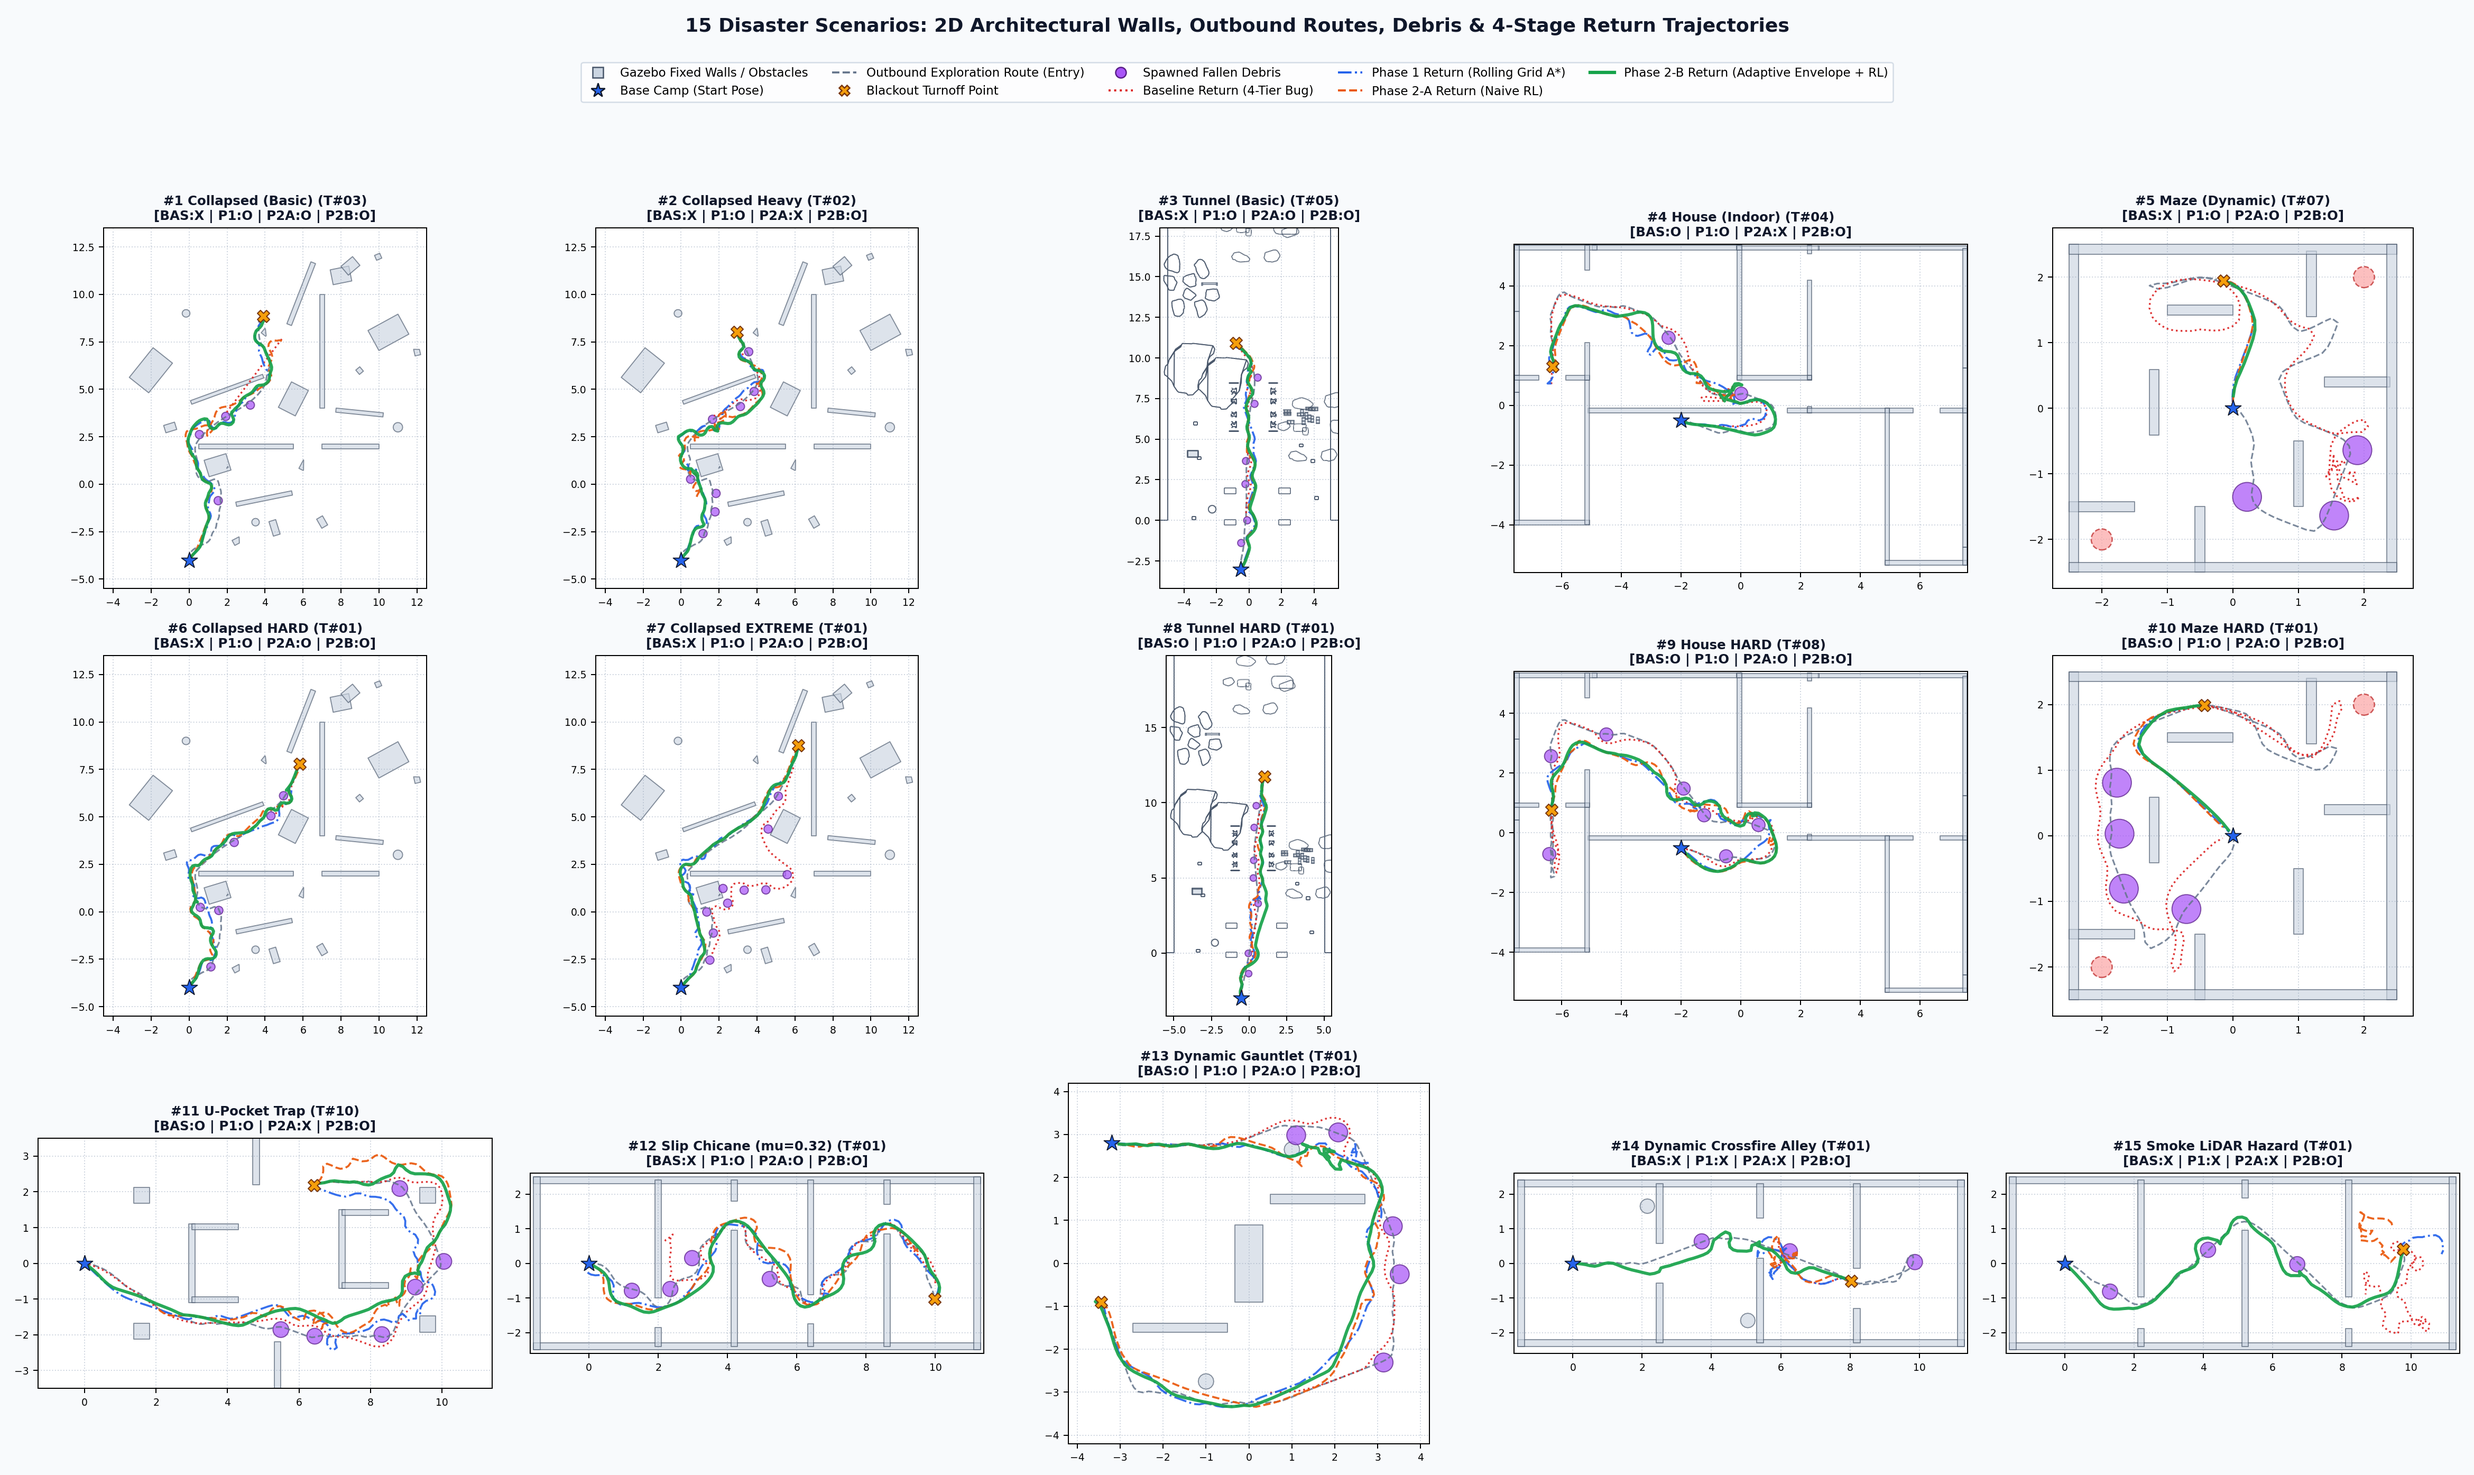
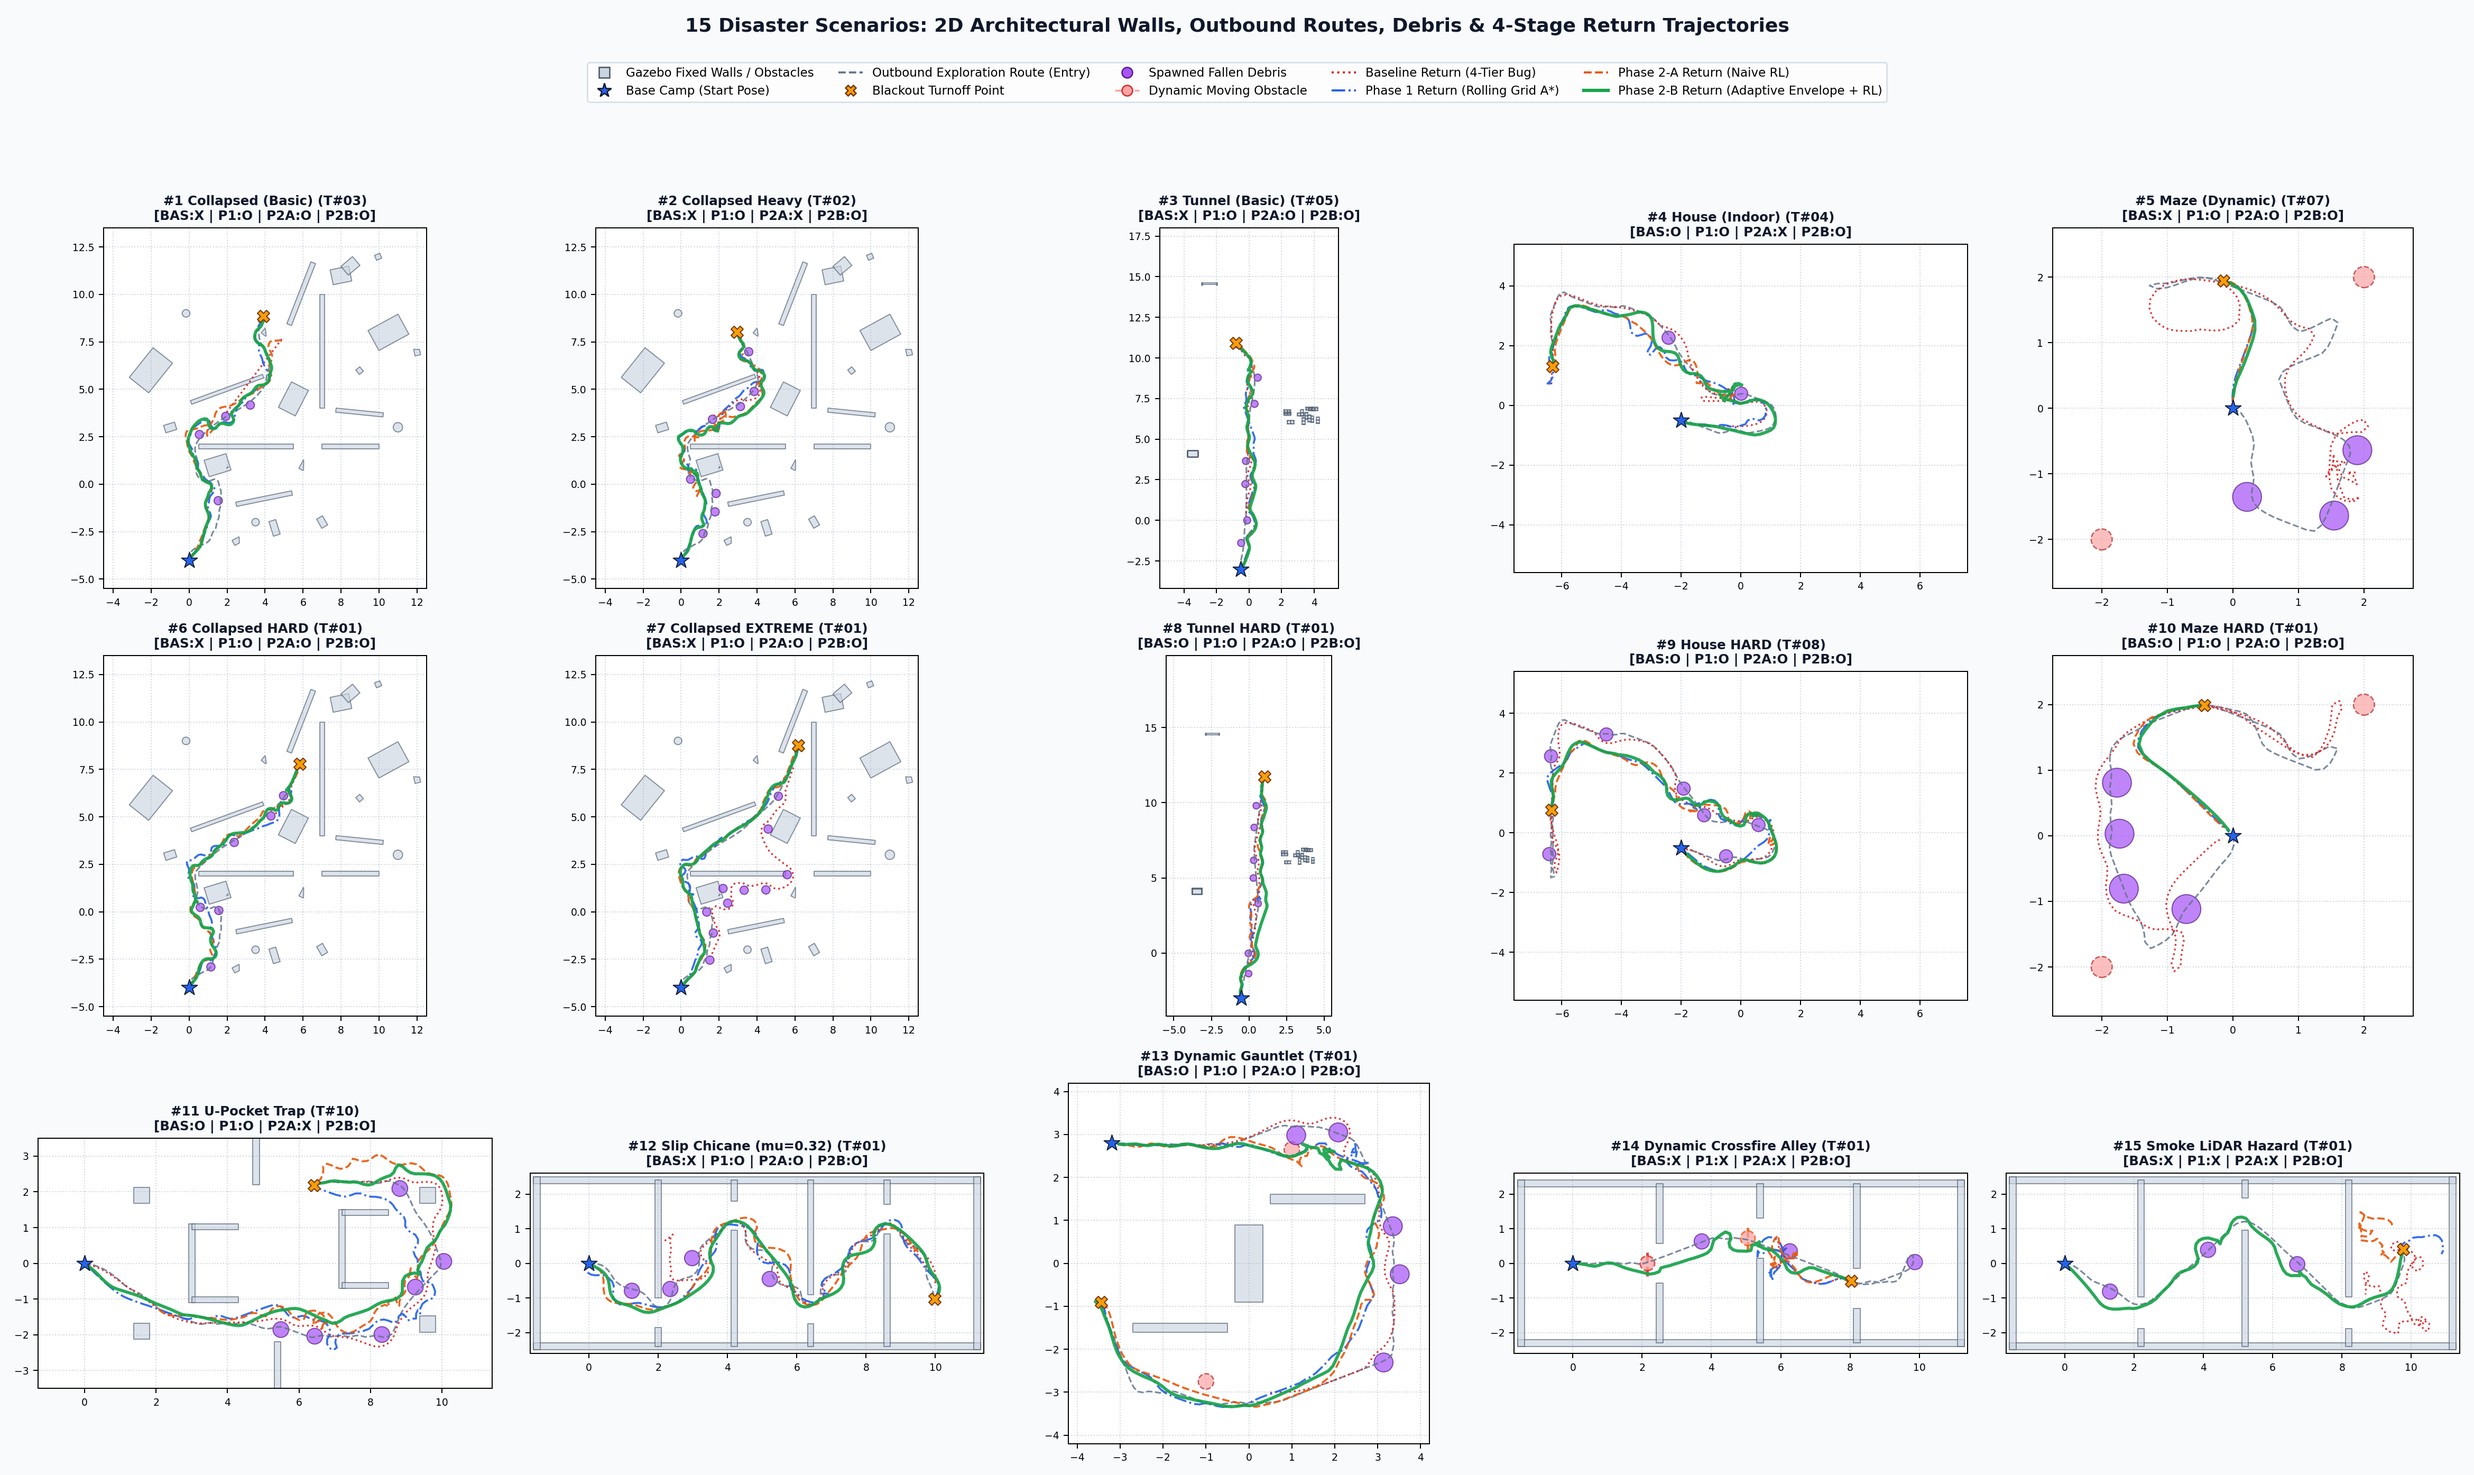
Animate moving pillars in #14 comp4 GIF/atlas, fix broken README ToC anchor, and organize archive section

diff --git a/scripts/host/plot_scenario_routes_15_atlas.py b/scripts/host/plot_scenario_routes_15_atlas.py
@@ -92,8 +92,15 @@ def main() -> int:
             segs = [s for _, s in fp.segments]
             lc = LineCollection(segs, colors="#475569", linewidths=0.75, alpha=0.80, zorder=1)
             ax.add_collection(lc)
-        for _, dx, dy, dr in fp.dynamic_markers:
-            ax.add_patch(mpatches.Circle((dx, dy), max(dr, 0.16), facecolor="#fca5a5", edgecolor="#b91c1c", ls="--", lw=1.0, alpha=0.7, zorder=2))
+        if sc == "dynamic_crossfire_alley":
+            # Active return-phase sweep trajectories across Gate 1 & Gate 2
+            amp = 0.36 / 0.95
+            for cx, cy0, col in ((2.15, 0.00, "#dc2626"), (5.05, 0.725, "#ea580c")):
+                ax.plot([cx, cx], [cy0 - amp, cy0 + amp], color=col, ls="--", lw=2.0, alpha=0.85, zorder=2)
+                ax.add_patch(mpatches.Circle((cx, cy0), 0.21, facecolor="#fca5a5", edgecolor=col, ls="--", lw=1.2, alpha=0.75, zorder=2))
+        else:
+            for _, dx, dy, dr in fp.dynamic_markers:
+                ax.add_patch(mpatches.Circle((dx, dy), max(dr, 0.16), facecolor="#fca5a5", edgecolor="#b91c1c", ls="--", lw=1.0, alpha=0.7, zorder=2))
 
         # 2. Spawned fallen debris rocks (purple circles)
         for deb in r_p2b.get("debris_positions", []):
@@ -141,6 +148,7 @@ def main() -> int:
         mlines.Line2D([], [], color="#64748b", ls="--", lw=1.5, label="Outbound Exploration Route (Entry)"),
         mlines.Line2D([], [], color="#f59e0b", marker="X", markersize=8, markeredgecolor="#78350f", ls="None", label="Blackout Turnoff Point"),
         mlines.Line2D([], [], color="#a855f7", marker="o", markersize=8, markeredgecolor="#581c87", ls="None", label="Spawned Fallen Debris"),
+        mlines.Line2D([], [], color="#fca5a5", marker="o", markersize=8, markeredgecolor="#dc2626", ls="--", lw=1.4, label="Dynamic Moving Obstacle"),
         mlines.Line2D([], [], color="#dc2626", ls=":", lw=1.6, label="Baseline Return (4-Tier Bug)"),
         mlines.Line2D([], [], color="#2563eb", ls="-.", lw=1.6, label="Phase 1 Return (Rolling Grid A*)"),
         mlines.Line2D([], [], color="#ea580c", ls="--", lw=1.6, label="Phase 2-A Return (Naive RL)"),

diff --git a/scripts/host/world_map_geometry.py b/scripts/host/world_map_geometry.py
@@ -380,12 +380,19 @@ def _process_model_elem(
 
     m_model = parent_mat @ _pose_matrix(model_el.findtext("pose"))
 
-    # Dynamic obstacle marker detection (maze)
-    if "obstacle" in low_name and (model_el.find("plugin") is not None or "dqn" in low_name):
+    # Dynamic obstacle marker detection (maze, dynamic_gauntlet, dynamic_crossfire_alley)
+    if ("obstacle" in low_name or "dyn_obs" in low_name) and (model_el.find("plugin") is not None or "dqn" in low_name):
         inc = model_el.find("include")
         inc_pose = _pose_matrix(inc.findtext("pose")) if inc is not None else np.eye(4)
         m_dyn = m_model @ inc_pose
-        fp.dynamic_markers.append((name, float(m_dyn[0, 3]), float(m_dyn[1, 3]), 0.12))
+        rad = 0.12
+        rad_text = model_el.findtext(".//cylinder/radius")
+        if rad_text:
+            try:
+                rad = float(rad_text)
+            except ValueError:
+                pass
+        fp.dynamic_markers.append((name, float(m_dyn[0, 3]), float(m_dyn[1, 3]), rad))
         return
 
     # Recursive nested <include> inside <model> (e.g., turtlebot3_house, turtlebot3_dqn_world)

diff --git a/README.md b/README.md
@@ -33,7 +33,13 @@
 2. [핵심 기능](#-핵심-기능)
 3. [시스템 아키텍처](#-시스템-아키텍처)
 4. [상태 머신](#-상태-머신-recovery_controller)
-5. [차세대 고도화 로드맵](#-차세대-고도화-15대-재난-시나리오-150회-확장-벤치마크--phase-2-b-적응형-인지안전-포락선-9933)
+5. [차세대 고도화: 15대 시나리오 150회 벤치마크 & Phase 2-B (`99.33%`)](#-차세대-고도화-15대-재난-시나리오-150회-확장-벤치마크--phase-2-b-자율-복귀-검증-9933)
+   - [1. 계층형 자율 복귀 구조](#1-phase-2-b-계층형-자율-복귀-구조)
+   - [2. #14·#15 난제 추가 배경](#2-왜-15개-시나리오14-15-포함로-확장했는가)
+   - [3. 15대 시나리오 3D · 2D 맵 & 경로 지도](#3-15대-재난-시나리오별-맵-구성3d--2d--진입-경로--유리한-복귀-방식)
+   - [4. 150회 4단계 정량 비교](#4-15대-시나리오--10회-150회-4단계-정량-비교)
+   - [5. 4-Way 비교 GIF · 3D 주행 영상 · V100 재학습](#-5-4-way-복귀-궤적-비교-gif-baseline-vs-phase-1-vs-phase-2-a-vs-phase-2-b-및-3d-주행-영상)
+   - [6. 이전 단계 벤치마크 및 문서 아카이브](#6-이전-단계-벤치마크-및-문서-아카이브)
 6. [하드웨어 구성](#-하드웨어-구성)
 7. [저장소 구조](#-저장소-구조)
 8. [설치](#-설치)
@@ -409,13 +415,15 @@ flowchart TD
 | :---: | :---: | :---: |
 | <img src="docs/images/evidence/phase2b_retrain_early_upd25.gif" width="100%" alt="Phase 2-B Retrain Early upd25"> | <img src="docs/images/evidence/phase2b_retrain_mid_upd150.gif" width="100%" alt="Phase 2-B Retrain Mid upd150"> | <img src="docs/images/evidence/phase2b_retrain_final_student.gif" width="100%" alt="Phase 2-B Retrain Final Student"> |
 
-> *동일 홀드아웃 `Seed 10068 (collapsed_debris · 주황색 기둥 7개)` 기준: **Early**는 기둥 사이에서 헤매며 시간 초과(`TIMEOUT`, 321스텝), **Mid**는 크게 회전·우회(`5.14m`)해 310스텝 만에 간신히 통과(`PASS`), **Final Student**는 기둥 사이를 매끄럽게 S자로 통과(`3.60m`)하며 `102스텝`(`20.8s`) 만에 복귀한다.*
+> *동일 홀드아웃 `Seed 10068 (collapsed_debris · 주황색 기둥 7개)` 기준 (`Start (0.00, -0.06) → Goal (3.33, -0.21)`): **Early**는 중앙 기둥 틈을 통과한 뒤 목표 수렴에 실패해 시간 초과(`TIMEOUT`, 321스텝), **Mid**는 목표 부근을 지나쳐 외곽으로 크게 우회(`5.14m`, 310스텝)한 끝에 통과(`PASS`), **Final Student**는 최단 도달 시간 보상(`time_bonus`)과 안전 여유 제약에 따라 불필요한 외곽 기둥 슬라럼 대신 중앙 기둥 사이 틈을 S자로 가로지르는 최단 안전 경로(`3.60m`, `102스텝` 단축)로 복귀한다.*
 
 <p align="center">
   <img src="docs/images/evidence/phase2b_learning_curves_sim.png" alt="Phase 2-B V100 Retraining Learning Curves" width="68%">
   <br>
   <em>▲ Tesla V100 32GB Phase 2-B 커리큘럼 재학습 수렴 곡선 (`docs/images/evidence/phase2b_learning_curves_sim.png`)</em>
 </p>
+
+#### 벤치마크 재현 명령어
 
 ```bash
 # 15대 재난 시나리오 4단계(Baseline / Phase 1 / Phase 2-A / Phase 2-B) 벤치마크 재현
@@ -424,9 +432,25 @@ python3 scripts/host/ab_disaster_benchmark.py --scenario all --trials 10 --propo
 python3 scripts/host/ab_disaster_benchmark.py --scenario all --trials 10 --proposed-only --proposed-strategy proposed_rl
 ```
 
-### 6. 초기 15회 벤치마크 및 5대 환경(50쌍) 아카이브
+### 6. 이전 단계 벤치마크 및 문서 아카이브
 
-- 초기 Residual TD3 기반 15회 연속 벤치마크(`11/15 = 73.3%`)는 [`docs/2026-11-13_붕괴건물_15회_자율복귀_벤치마크_분석보고서.md`](docs/2026-11-13_붕괴건물_15회_자율복귀_벤치마크_분석보고서.md)에, 기본 5대 환경 50쌍(`p1_*`, `p2_sim2sim_*`) 구형 GIF 및 15종 150회 전체 비교표·원리 해설은 [`docs/2026-11-13_5대재난환경_자율복귀_알고리즘_AB비교_및_원리해설_보고서.md`](docs/2026-11-13_5대재난환경_자율복귀_알고리즘_AB비교_및_원리해설_보고서.md)에 보존되어 있다.
+프로젝트 초기 실험부터 5대·15대 재난환경 벤치마크까지의 상세 기록·원시 JSON·구버전 데모 아카이브는 아래 문서에 단계별로 정리되어 있다.
+
+| 개발 단계 | 검증 범위 · 결과 요약 | 상세 문서 및 데이터 |
+| :--- | :--- | :--- |
+| **초기 프로토타입** | 붕괴 건물 초기 Residual TD3 `15회` 연속 벤치마크 (`11/15 = 73.3%`) & 교착 원인 진단 | [`2026-11-13_붕괴건물_15회_자율복귀_벤치마크_분석보고서.md`](docs/2026-11-13_붕괴건물_15회_자율복귀_벤치마크_분석보고서.md) |
+| **Phase 1 · 2 · 2-A (5대 환경)** | 기본 5대 월드 `50쌍` 비교 — Phase 1(`49/50 = 98.0%`) · Phase 2 S2S(`47/50 = 94.0%`) · Phase 2-A(`48/50 = 96.0%`) | [`2026-11-13_5대재난환경_자율복귀_알고리즘_AB비교_및_원리해설_보고서.md`](docs/2026-11-13_5대재난환경_자율복귀_알고리즘_AB비교_및_원리해설_보고서.md) |
+| **Phase 2-B (15대 환경 150회)** | 15개 시나리오 × 10회 4단계 통합 집계 (`149/150 = 99.33%`, 회차별 `fails`·소요시간·경로장) | [`phase2b_comparison_summary.txt`](docs/phase2b_comparison_summary.txt) · [`phase2b_comparison_summary.json`](docs/phase2b_comparison_summary.json) |
+
+<details>
+<summary>📂 원시 JSON 결과 디렉터리 및 구형 5대 환경 GIF 자산 위치 보기</summary>
+
+- **Phase 1 (`proposed` A\*) vs Baseline 결과 JSON (`benchmark_results/ab_comparison/`)**: 기본 5대 환경 + 확장 환경 회차별 궤적/오차 JSON 보관
+- **Phase 2 S2S 원시 결과 JSON (`benchmark_results/phase2_sim2sim/`)**: `8,847만` 스텝 Dual-Track PPO+PLR 증류 정책 5대 환경 검증 로그
+- **Phase 2-A S2S 원시 결과 JSON (`benchmark_results/phase2a_sim2sim/`)**: Clearance-Gated Blending 적용 후 5대 환경(`48/50`) 검증 로그
+- **구형 5대 환경 데모 GIF (`p1_*`, `p2_sim2sim_*`)**: `docs/images/evidence/` 및 위 A/B 원리해설 보고서 §5.3·§6.2에 보존
+
+</details>
 
 ---
 
